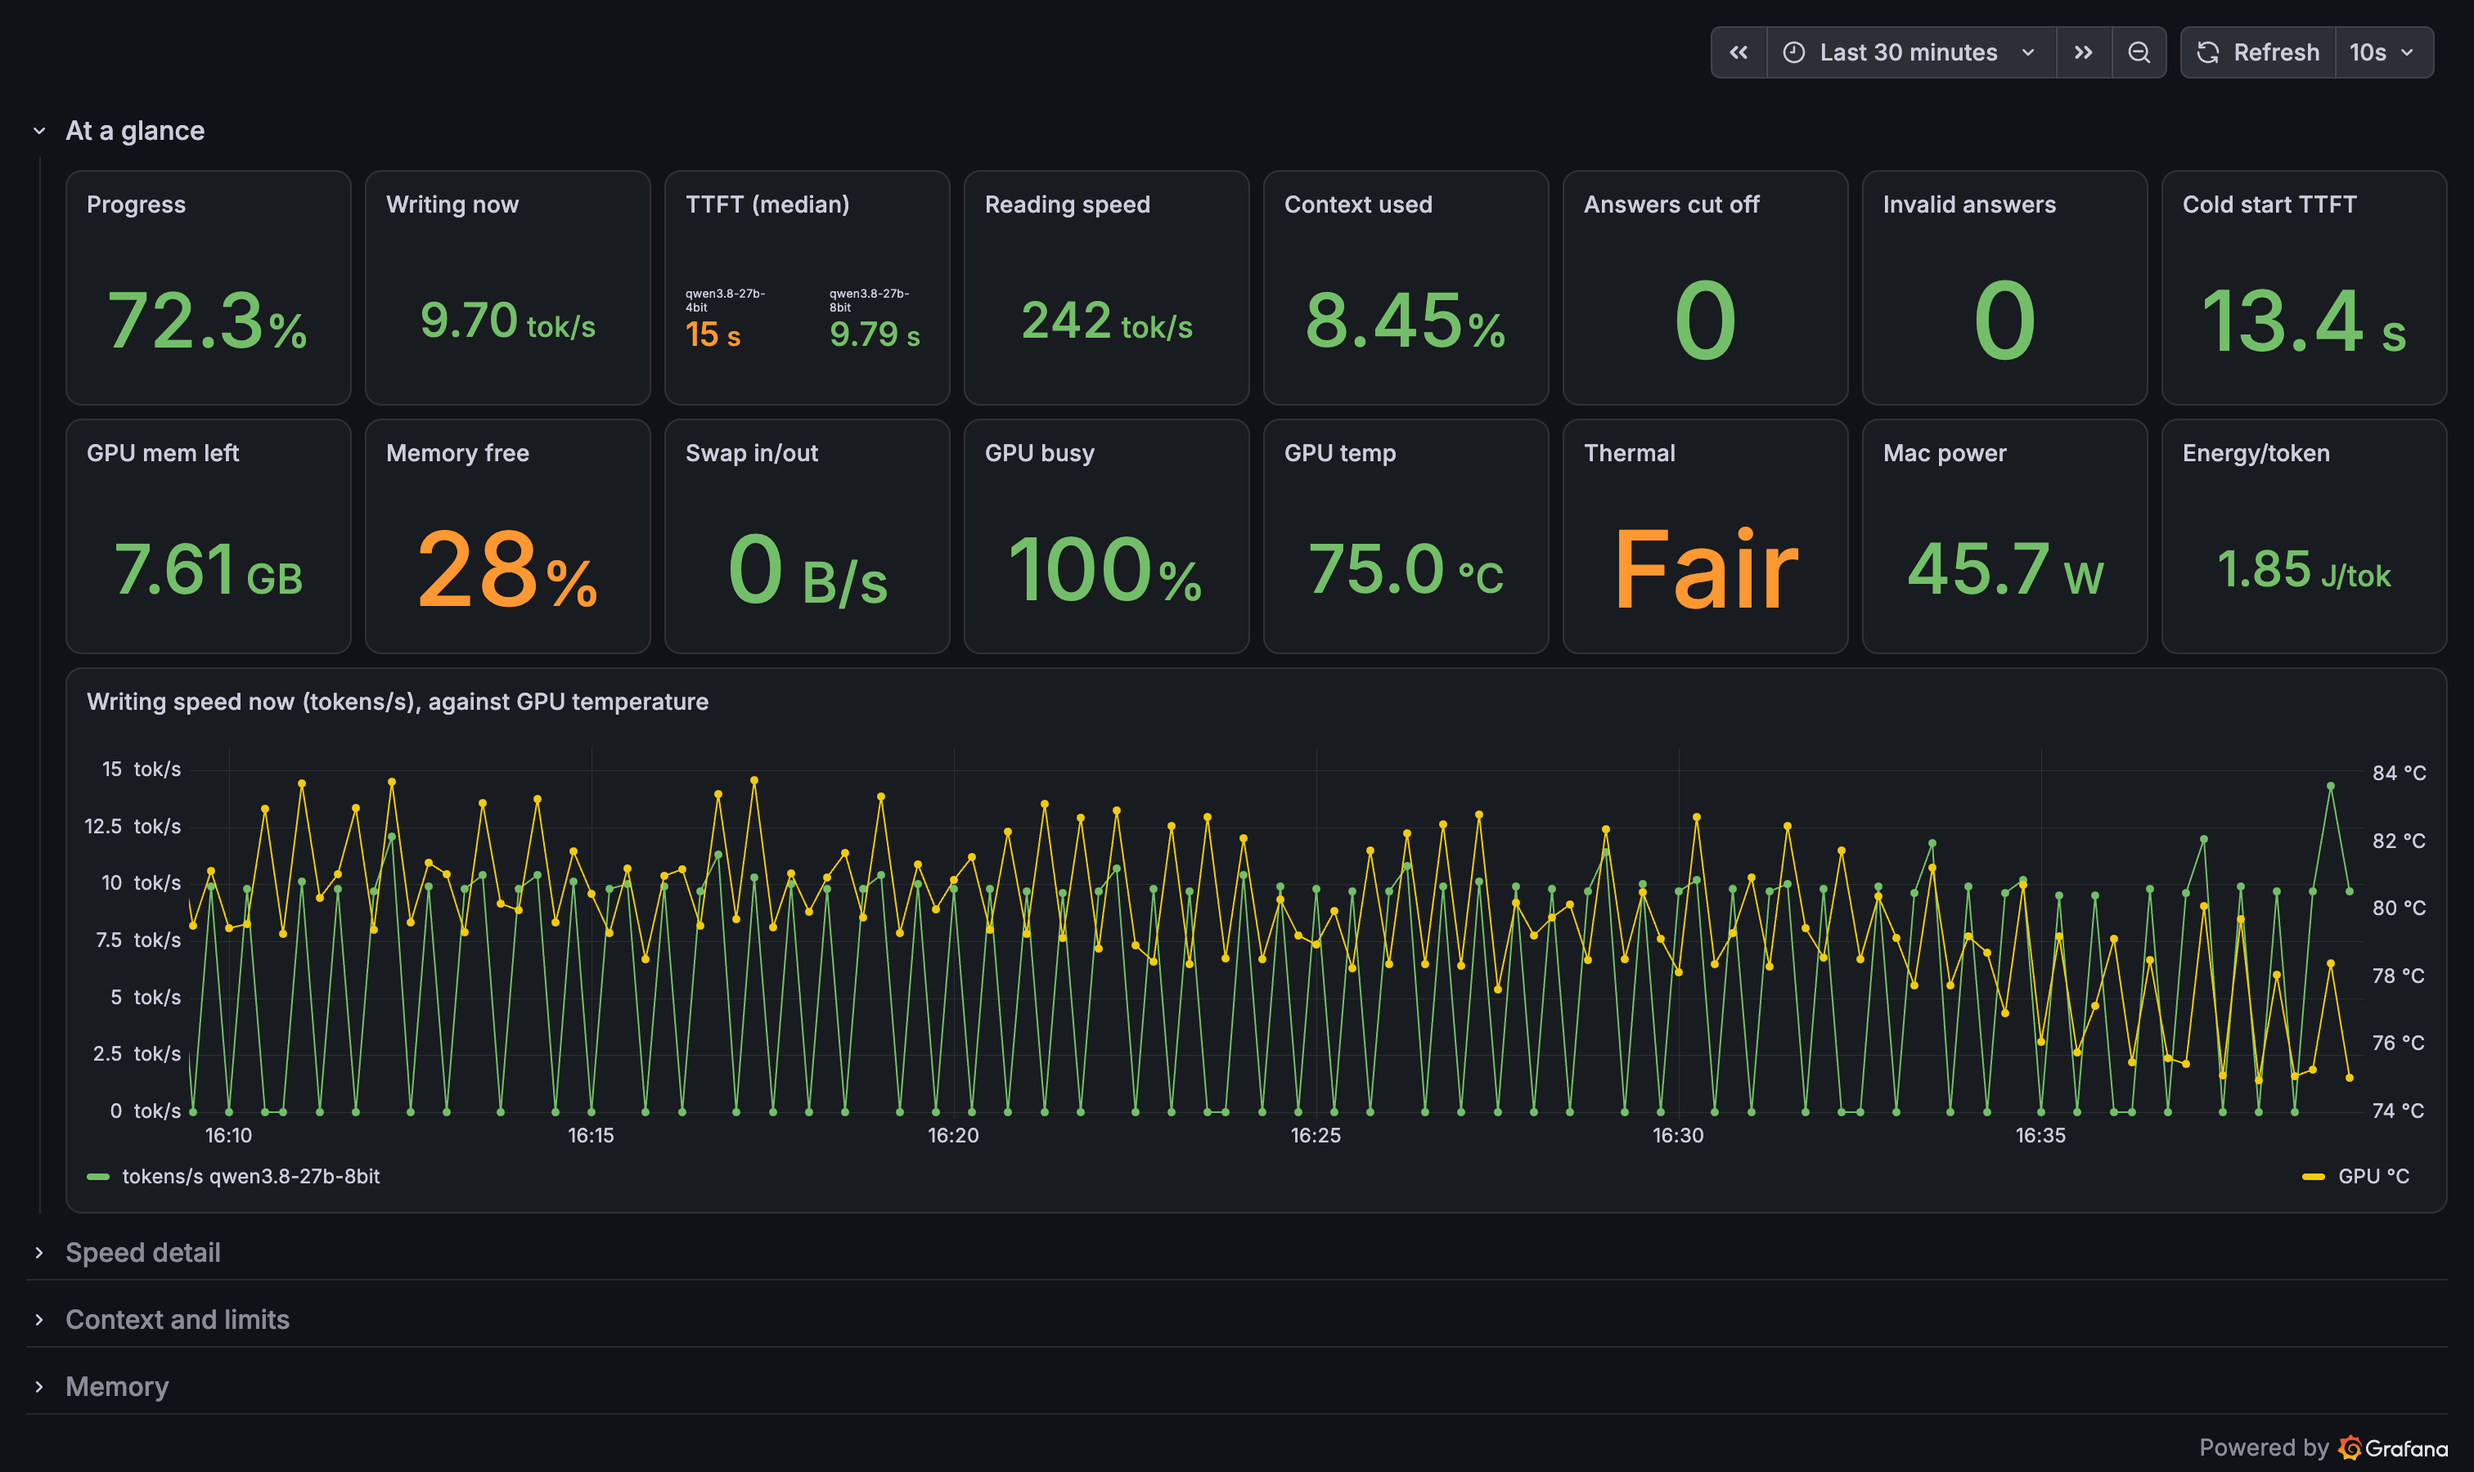
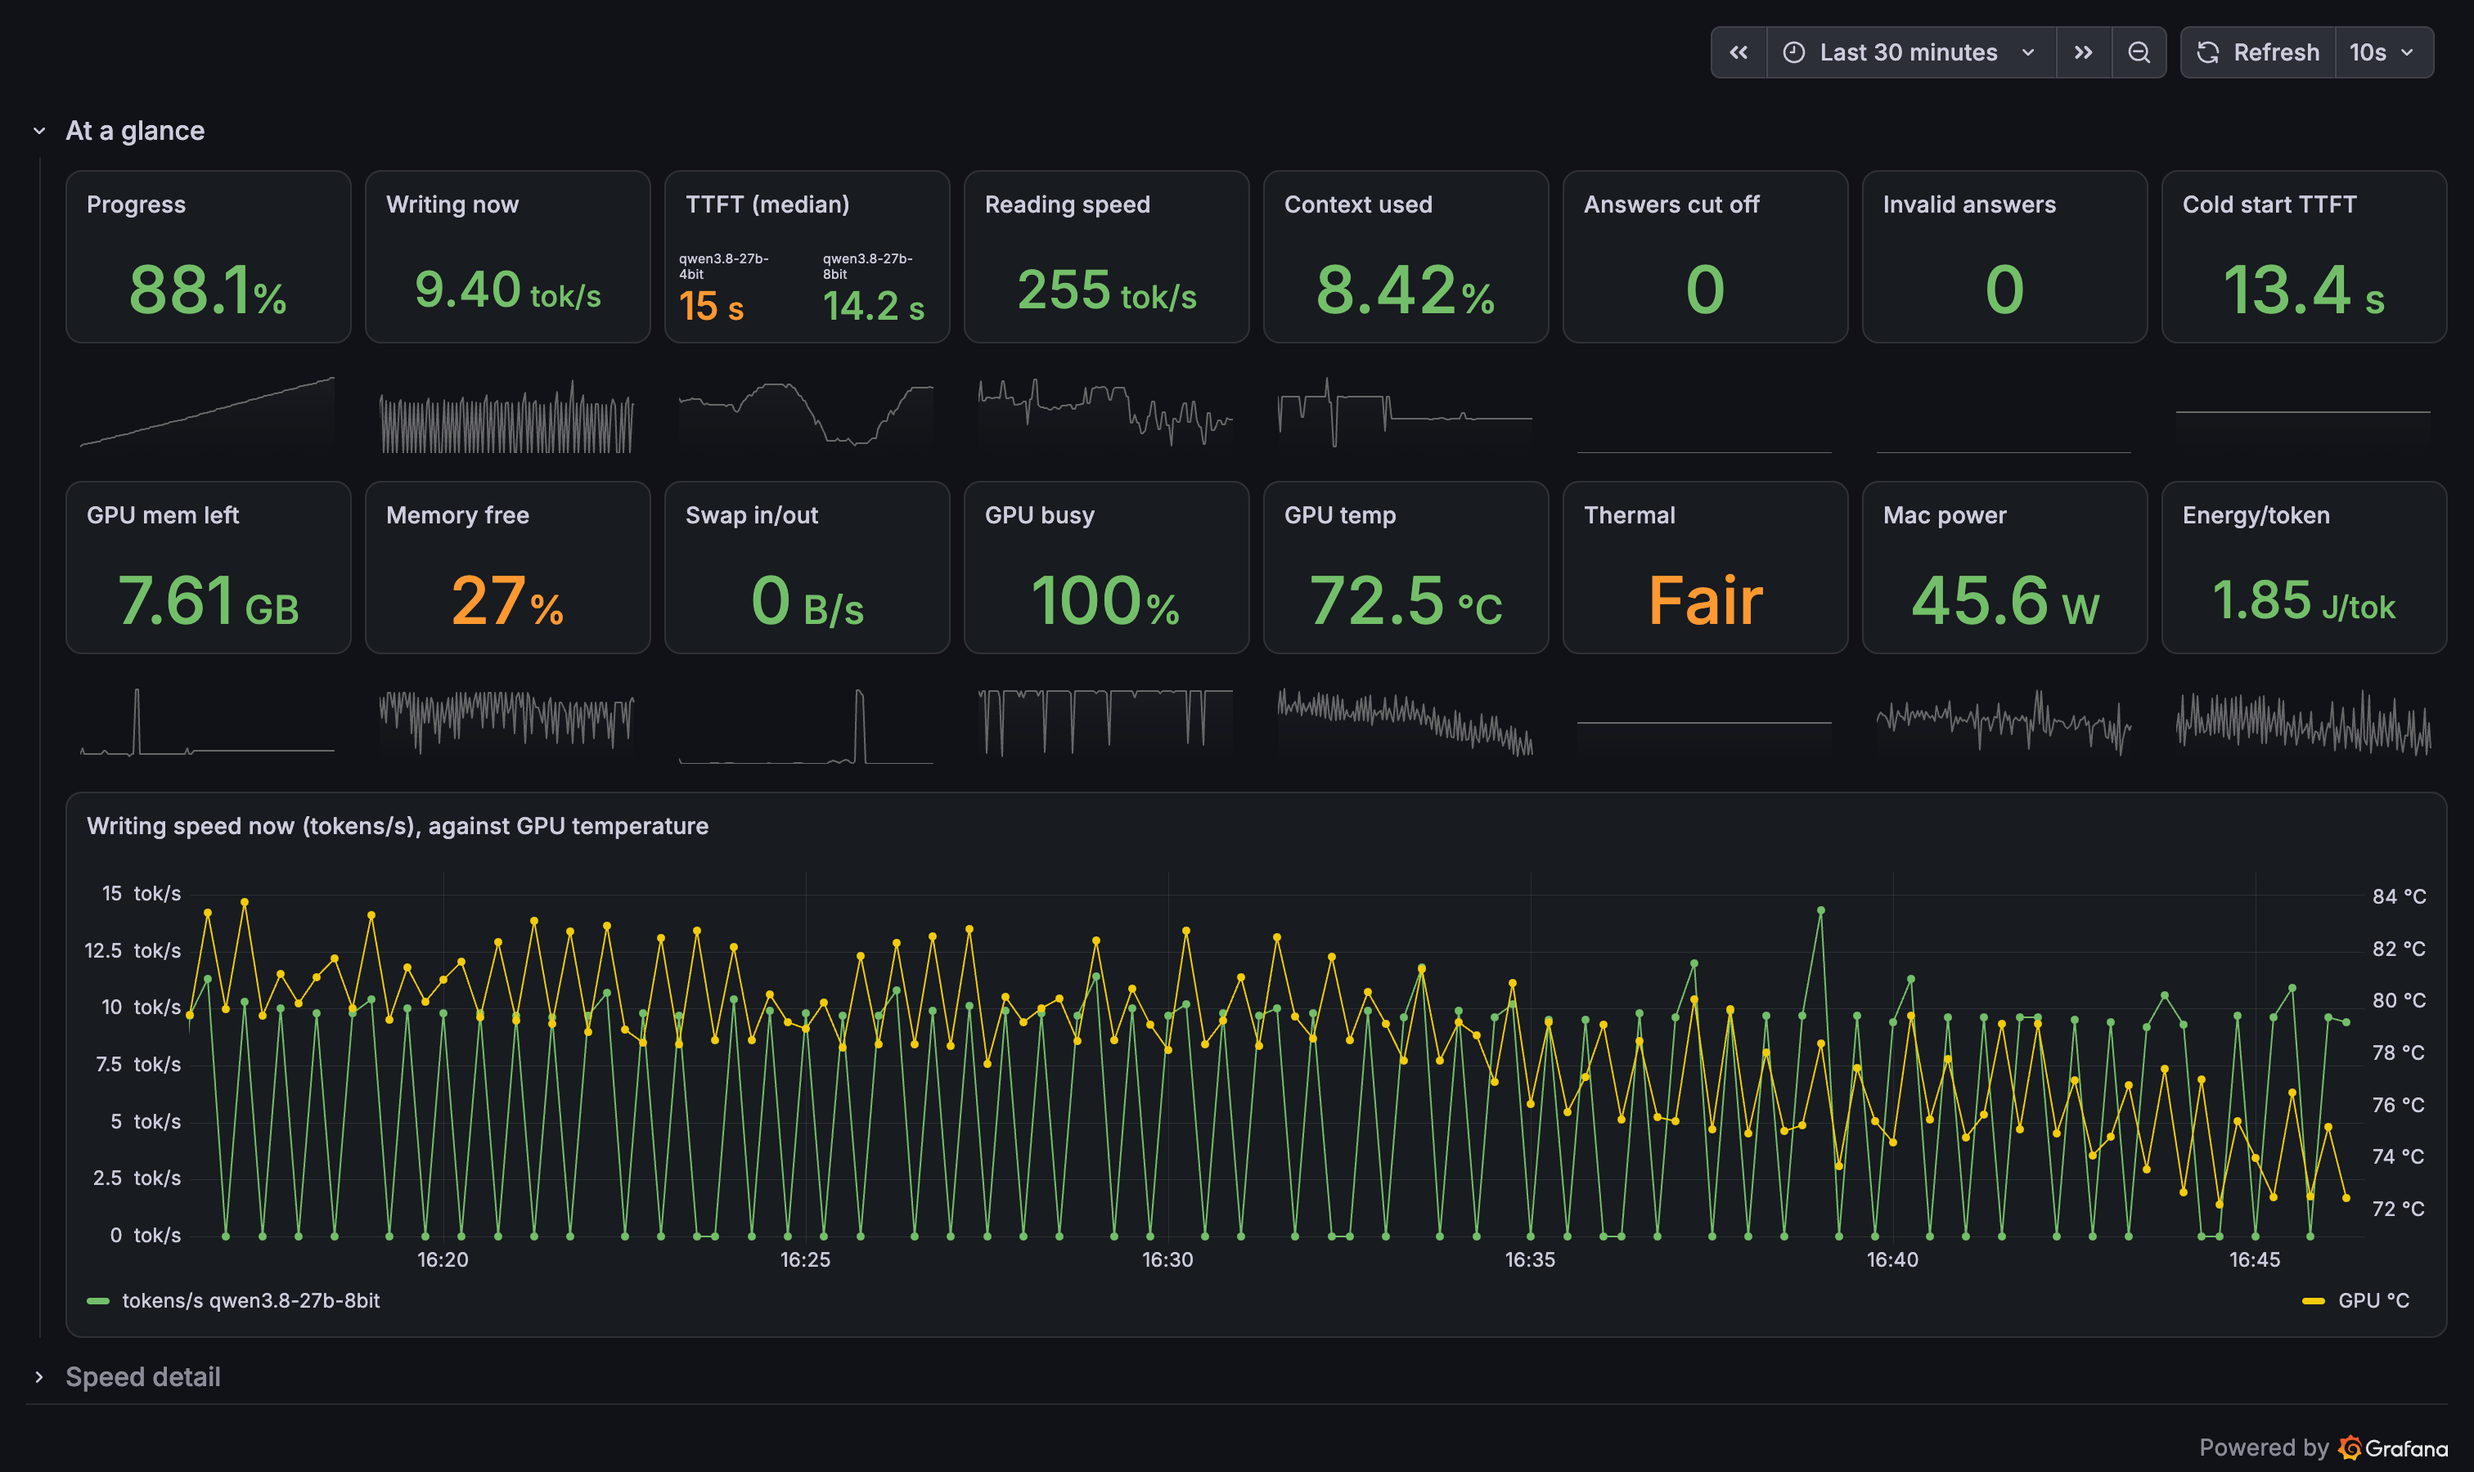
Put a quiet trend line under each at-a-glance number
Grafana draws a stat tile's graph behind the number at full strength and
ignores opacity, so the graph sits in its own frameless strip under the tile:
a thin grey line with a light fill, the same queries, no axes or legend.
Strips are numbered apart so detail panels keep their ids (?viewPanel=31).
Screenshots retaken.

diff --git a/src/inference_vitals/monitor.py b/src/inference_vitals/monitor.py
@@ -116,6 +116,32 @@ def _panel(title, exprs, unit, x, y, w=12, h=8, kind="timeseries"):
 
 
 THERMAL_NAMES = ["Nominal", "Fair", "Serious", "Critical"]
+TILE_H, STRIP_H = 3, 2  # a number, and under it a small trend strip (a graph behind the number hides it)
+ROW2 = 1 + TILE_H + STRIP_H
+STRIP_COLOUR = "rgba(140, 140, 140, 0.7)"
+STRIP_IDS = 101  # strips are numbered apart, so the detail panels keep their ids (?viewPanel=31)
+
+
+def _strip(tile: dict) -> dict:
+    """A frameless line chart under a tile: the same numbers over time, no title, axes or legend."""
+    g = tile["gridPos"]
+    s = _panel("", [], tile["fieldConfig"]["defaults"]["unit"], g["x"], g["y"] + g["h"], g["w"], STRIP_H)
+    s["targets"] = [dict(t) for t in tile["targets"]]
+    s["transparent"] = True
+    stepped = any(m["type"] == "value" for m in tile["fieldConfig"]["defaults"]["mappings"])
+    # Quiet grey, so the eye goes to the number; Grafana cannot fade a graph drawn inside the tile itself.
+    s["fieldConfig"]["defaults"]["color"] = {"mode": "fixed", "fixedColor": STRIP_COLOUR}
+    s["fieldConfig"]["defaults"]["custom"] = {
+        "axisPlacement": "hidden",
+        "lineWidth": 1,
+        "fillOpacity": 8,
+        "gradientMode": "opacity",
+        "showPoints": "never",
+        "spanNulls": True,
+        "lineInterpolation": "stepAfter" if stepped else "linear",
+    }
+    s["options"] = {"legend": {"showLegend": False}, "tooltip": {"mode": "multi"}}
+    return s
 
 
 def _stat(
@@ -133,7 +159,7 @@ def _stat(
         steps = [{"color": "green", "value": None}]
         steps += [{"color": "orange", "value": warn}] if warn is not None else []
         steps += [{"color": "red", "value": bad}] if bad is not None else []
-    p = _panel(title, [(expr, legend)], unit, x, y, w, 4, "stat")
+    p = _panel(title, [(expr, legend)], unit, x, y, w, TILE_H, "stat")
     p["fieldConfig"]["defaults"]["thresholds"] = {"mode": "absolute", "steps": steps}
     # A tile with nothing to show yet reads "–" in the text colour, not "No data" in the alarm colour.
     p["fieldConfig"]["defaults"]["noValue"] = "–"
@@ -185,7 +211,7 @@ def dashboard() -> dict:
         ],
         TOK_S,
         0,
-        9,
+        ROW2 + TILE_H + STRIP_H,
         24,
         9,
     )
@@ -216,36 +242,37 @@ def dashboard() -> dict:
         _stat("Invalid answers", "vitals_answers_invalid_total", "none", 18, 1, warn=1, bad=5),
         _stat("Cold start TTFT", "vitals_cold_ttft_s", "s", 21, 1),
         # The Mac: memory first, since that is what fails first with a big model.
-        _stat("GPU mem left", HEADROOM, "decbytes", 0, 5, warn=4e9, bad=2e9, low_is_bad=True),
+        _stat("GPU mem left", HEADROOM, "decbytes", 0, ROW2, warn=4e9, bad=2e9, low_is_bad=True),
         _stat(
             "Memory free",
             "vitals_mac_memory_free_percent",
             "percent",
             3,
-            5,
+            ROW2,
             warn=30,
             bad=15,
             legend="",
             low_is_bad=True,
         ),
-        _stat("Swap in/out", SWAP_RATE, "Bps", 6, 5, warn=10e6, bad=100e6, legend=""),
-        _stat("GPU busy", "macmon_gpu_active_ratio", "percentunit", 9, 5, legend=""),
-        _stat("GPU temp", "macmon_gpu_temp_celsius", "celsius", 12, 5, warn=85, bad=95, legend=""),
+        _stat("Swap in/out", SWAP_RATE, "Bps", 6, ROW2, warn=10e6, bad=100e6, legend=""),
+        _stat("GPU busy", "macmon_gpu_active_ratio", "percentunit", 9, ROW2, legend=""),
+        _stat("GPU temp", "macmon_gpu_temp_celsius", "celsius", 12, ROW2, warn=85, bad=95, legend=""),
         _stat(
             "Thermal",
             "vitals_mac_thermal_state",
             "none",
             15,
-            5,
+            ROW2,
             warn=1,
             bad=2,
             legend="",
             names=THERMAL_NAMES,
         ),
-        _stat("Mac power", "macmon_sys_power_watts", "watt", 18, 5, legend=""),
-        _stat("Energy/token", JOULES, "suffix: J/tok", 21, 5, legend=""),
+        _stat("Mac power", "macmon_sys_power_watts", "watt", 18, ROW2, legend=""),
+        _stat("Energy/token", JOULES, "suffix: J/tok", 21, ROW2, legend=""),
         live,
     ]
+    overview += [_strip(p) for p in overview if p["type"] == "stat"]
     details = [
         _row(
             "Speed detail",
@@ -439,11 +466,18 @@ def dashboard() -> dict:
             ],
         ),
     ]
-    panel_id = 0
+    shift = live["gridPos"]["y"] + live["gridPos"]["h"] - 18  # details were laid out to start at y=18
+    for row in details:
+        for p in [row, *row["panels"]]:
+            p["gridPos"]["y"] += shift
+    panel_id, strip_id = 0, STRIP_IDS
     for panel in overview + details:  # ids let a single panel be opened on its own (?viewPanel=<id>)
         for p in [panel, *panel.get("panels", [])]:
-            panel_id += 1
-            p["id"] = panel_id
+            if p["title"] == "":
+                p["id"], strip_id = strip_id, strip_id + 1
+            else:
+                panel_id += 1
+                p["id"] = panel_id
     return {
         "uid": "inference-vitals",
         "title": "Inference Vitals",

diff --git a/tests/test_monitor.py b/tests/test_monitor.py
@@ -147,3 +147,23 @@ def test_tiles_show_plain_numbers_with_no_graph_behind_them_and_name_each_model(
     for t in tiles:
         assert t["options"]["graphMode"] == "none", t["title"]
         assert t["options"]["textMode"] == "auto", t["title"]  # a name above each number when two models show
+
+
+def test_every_tile_has_a_small_trend_strip_right_under_it():
+    panels = monitor.dashboard()["panels"]
+    tiles = [p for p in panels if p["type"] == "stat"]
+    strips = {(p["gridPos"]["x"], p["gridPos"]["y"]): p for p in panels if p.get("title") == ""}
+    assert len(strips) == len(tiles) == 16
+    for t in tiles:
+        g = t["gridPos"]
+        s = strips[(g["x"], g["y"] + g["h"])]
+        assert s["type"] == "timeseries" and s["gridPos"]["w"] == g["w"] and s["transparent"]
+        assert [x["expr"] for x in s["targets"]] == [x["expr"] for x in t["targets"]]
+        assert s["fieldConfig"]["defaults"]["custom"]["axisPlacement"] == "hidden"
+        assert not s["options"]["legend"]["showLegend"]
+        assert s["fieldConfig"]["defaults"]["color"] == {"mode": "fixed", "fixedColor": monitor.STRIP_COLOUR}
+
+
+def test_panel_ids_the_screenshots_open_stay_put():
+    by_id = {p["id"]: p["title"] for p in _all_panels(monitor.dashboard())}
+    assert "memory" in by_id[31].lower() and "power" in by_id[37].lower()

diff --git a/README.md b/README.md
@@ -21,7 +21,7 @@ listens on `127.0.0.1` only.
 
 ## What it shows
 
-**At a glance**, sixteen numbers and one chart:
+**At a glance**, sixteen numbers, each with a quiet trend line under it, and one chart:
 
 | The run | The Mac |
 | --- | --- |
